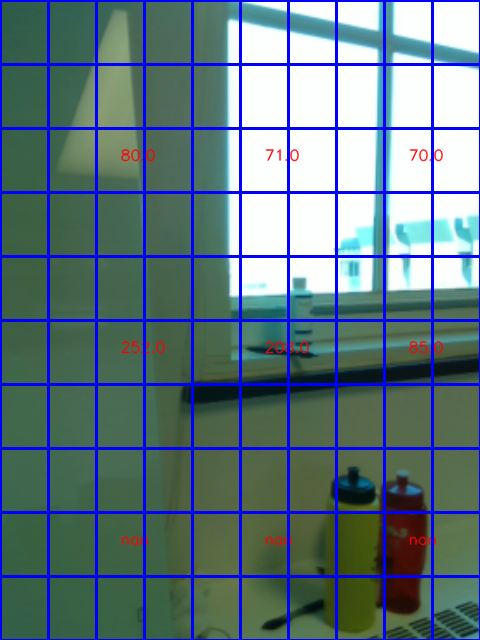
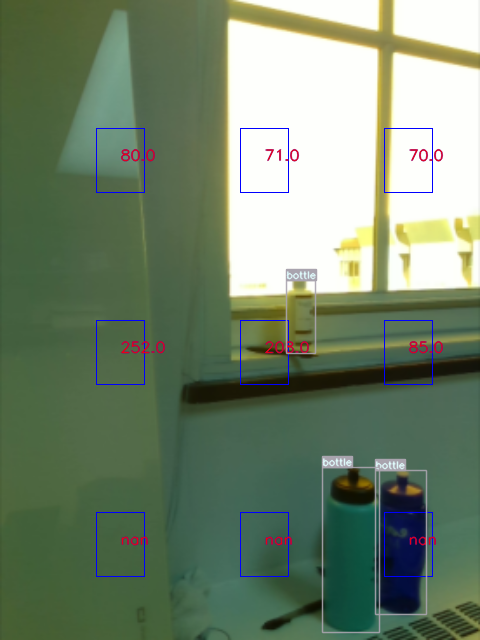
Add updating objects of interests for landmark screen

Changed region(s): [[0.0, 0.0, 1.0, 1.0], [0.9688, 0.0, 1.0, 0.0312]]

diff --git a/POI/landmark_screen.py b/POI/landmark_screen.py
@@ -1,6 +1,8 @@
 import numpy as np
 import cv2
-from location_of_interest import LOI
+from POI.location_of_interest import LOI
+from POI.object_of_interest import OOI
+from re1_utils.objdet_utils import plot_all_boxes
 
 class LandmarkScreen():
     def __init__(self, color_frame, depth_frame) -> None:
@@ -42,18 +44,31 @@ class LandmarkScreen():
                     bbox = bbox,
                     active=self.grid_repr[w][h],
                 )
+        self.cur_preds = None #Current object detected
 
-    def show(self):
+        self.landmarks = {}
+        
+        self.landmarks['locations'] = self.grid
+        self.landmarks['objects'] = {} 
+
+    def show_locations(self):
         for w in range(self.grid_repr.shape[0]):
             for h in range(self.grid_repr.shape[1]):
-                cv2.rectangle(self.color_frame, self.grid[w][h].bbox[0], self.grid[w][h].bbox[1], self.grid[w][h].landmark_color, 2)
                 if self.grid[w][h].active_landmark:
                     # cv2.circle(self.color_frame, self.grid[w][h].img_coord[:-1], radius= 2, color = (255,0,0), thickness = 2)
+                    cv2.rectangle(self.color_frame, self.grid[w][h].bbox[0], self.grid[w][h].bbox[1], self.grid[w][h].landmark_color, 1)
                     self.color_frame = cv2.putText(self.color_frame, str(self.grid[w][h].depth), self.grid[w][h].img_coord[:-1], cv2.FONT_HERSHEY_SIMPLEX, 
                                     0.5, (255,0,0), 1, cv2.LINE_AA)
 
+    def show_objects(self):
+        if self.cur_preds is not None:
+            plot_all_boxes(self.cur_preds, self.color_frame)
+    
+    def show(self):
+        self.show_locations()
+        self.show_objects()
+
         self.color_frame = cv2.cvtColor(self.color_frame, cv2.COLOR_RGB2BGR)
-        print('save')
         cv2.imwrite('./sample/selection_output.png', self.color_frame)
 
         cv2.imshow('',self.color_frame)
@@ -62,6 +77,20 @@ class LandmarkScreen():
             #closing all open windows 
             cv2.destroyAllWindows() 
 
+    def update_OOI(self, preds):
+        self.cur_preds = preds
+        for i in range(preds.shape[0]):
+            coord = preds[i, :]
+            img_coord = np.array([(coord[2]-coord[0])/2,(coord[3]-coord[1])/2])
+            self.landmarks['objects'][i] = OOI(
+                img_coord = img_coord, 
+                depth = 0,
+                obj_class = int(coord[-1]),
+                obj_atributes = 'None', 
+                bbox = ((coord[0],coord[1]),(coord[2],coord[3])),
+                conf_score = coord[4],
+                eid = i
+            )
 
 if __name__ == '__main__':
     sample_img = cv2.imread('./sample/color_output.png')
@@ -69,3 +98,14 @@ if __name__ == '__main__':
     sample_img = cv2.resize(sample_img, (480, 640))
     landmark_screen = LandmarkScreen(color_frame=sample_img, depth_frame=sample_img[:,:, 0])
     landmark_screen.show()
+
+    preds = np.array(
+        [
+        [375, 470, 426,614,0.81986,39],
+        [322, 467, 379,632,0.78286,39],
+        [286, 280, 315,353,0.40197,39]
+        ]
+    )
+    landmark_screen.update_OOI(preds)
+    landmark_screen.show()
+

diff --git a/POI/location_of_interest.py b/POI/location_of_interest.py
@@ -1,4 +1,4 @@
-from point_of_interest import POI
+from POI.point_of_interest import POI
 
 class LOI(POI):
     def __init__(self, img_coord, depth, bbox, active = False, uuid=None) -> None:

diff --git a/controls/controller.py b/controls/controller.py
@@ -1,0 +1,10 @@
+import os
+
+class Controller():
+    def __init__(self):
+        pass
+
+if __name__ == "__main__":
+    controller = Controller()
+    
+    

diff --git a/planning/planner.py b/planning/planner.py
@@ -1,0 +1,9 @@
+import os
+
+class Planner():
+    def __init__(self):
+        pass
+
+if __name__ == '__main__':
+    planner = Planner()
+    print(1)
